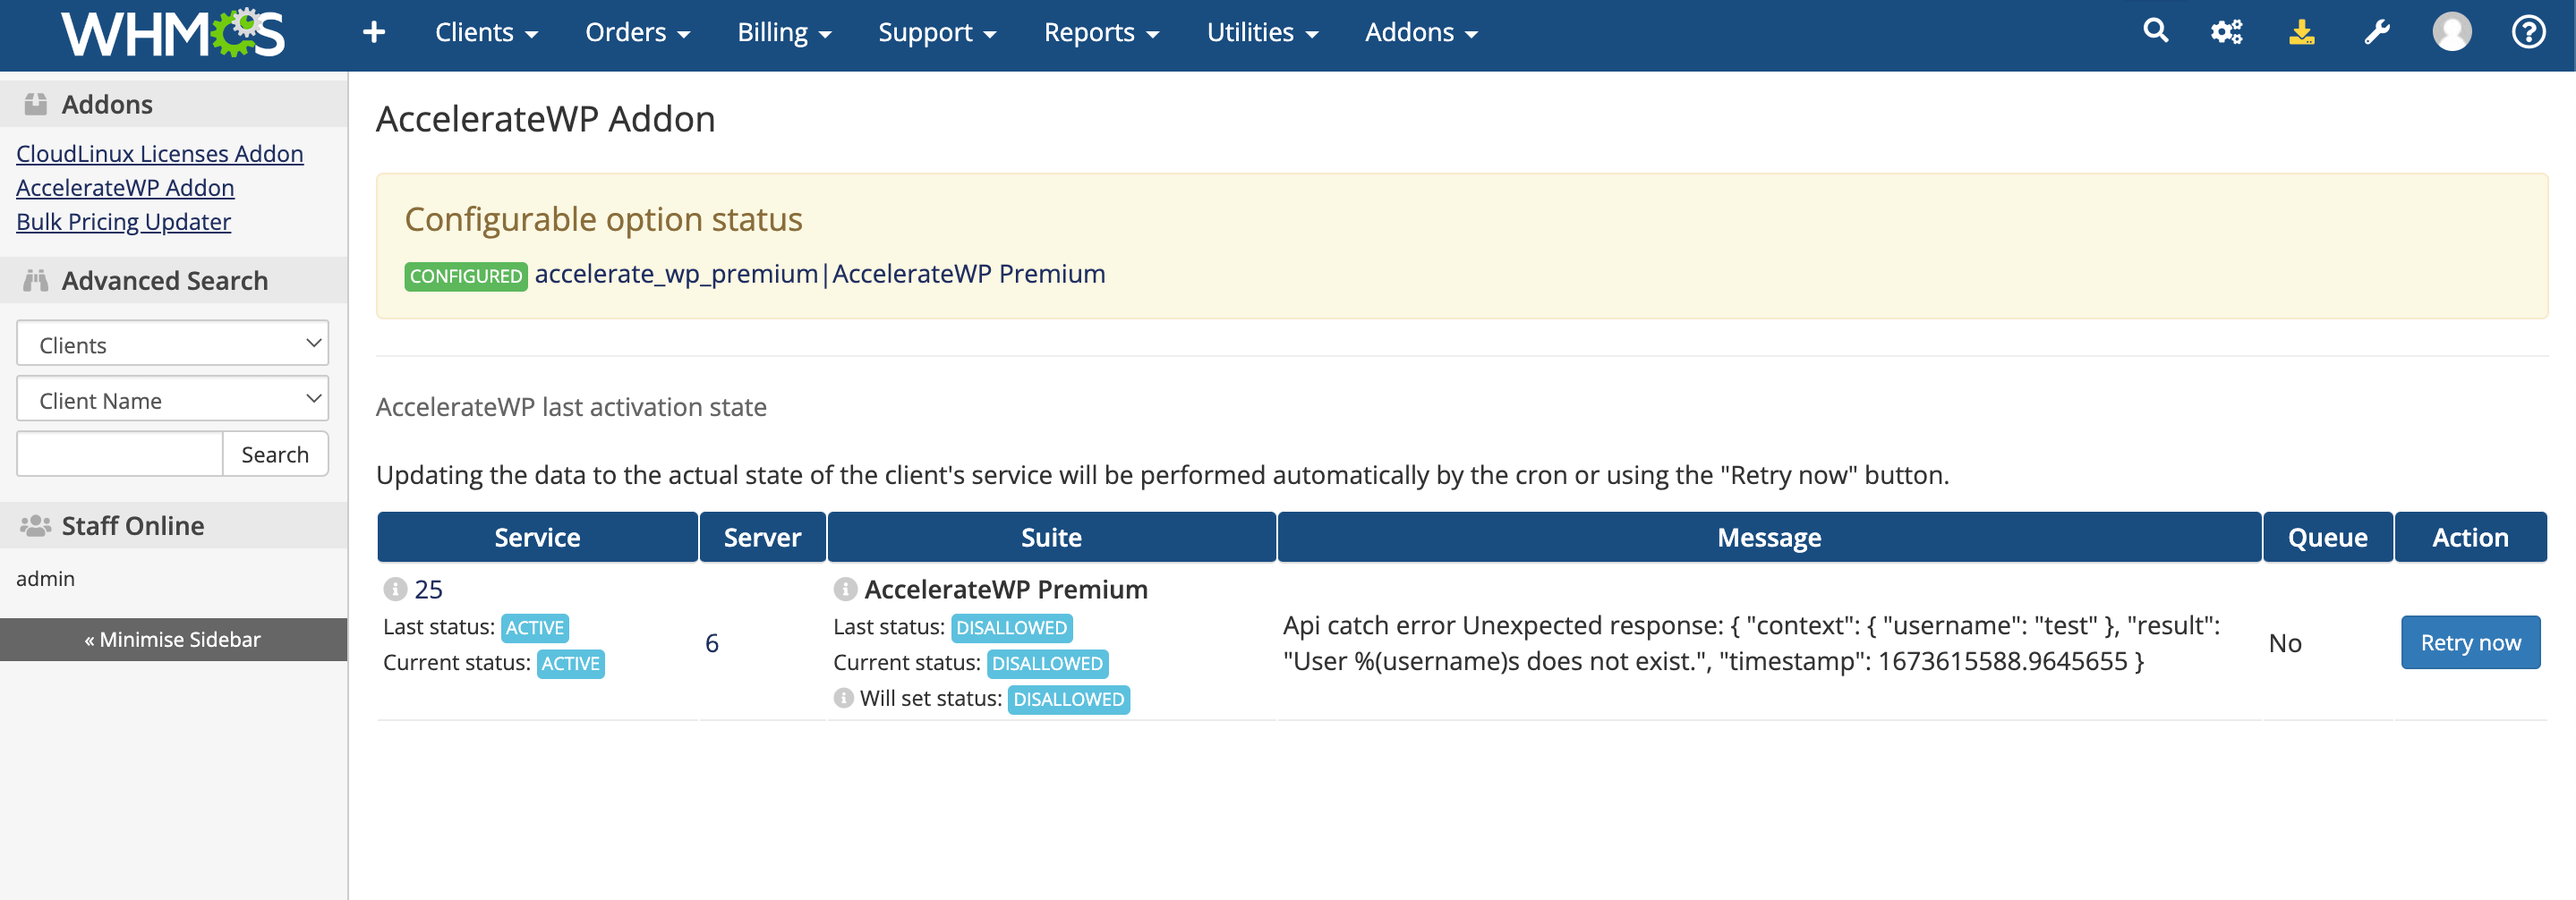
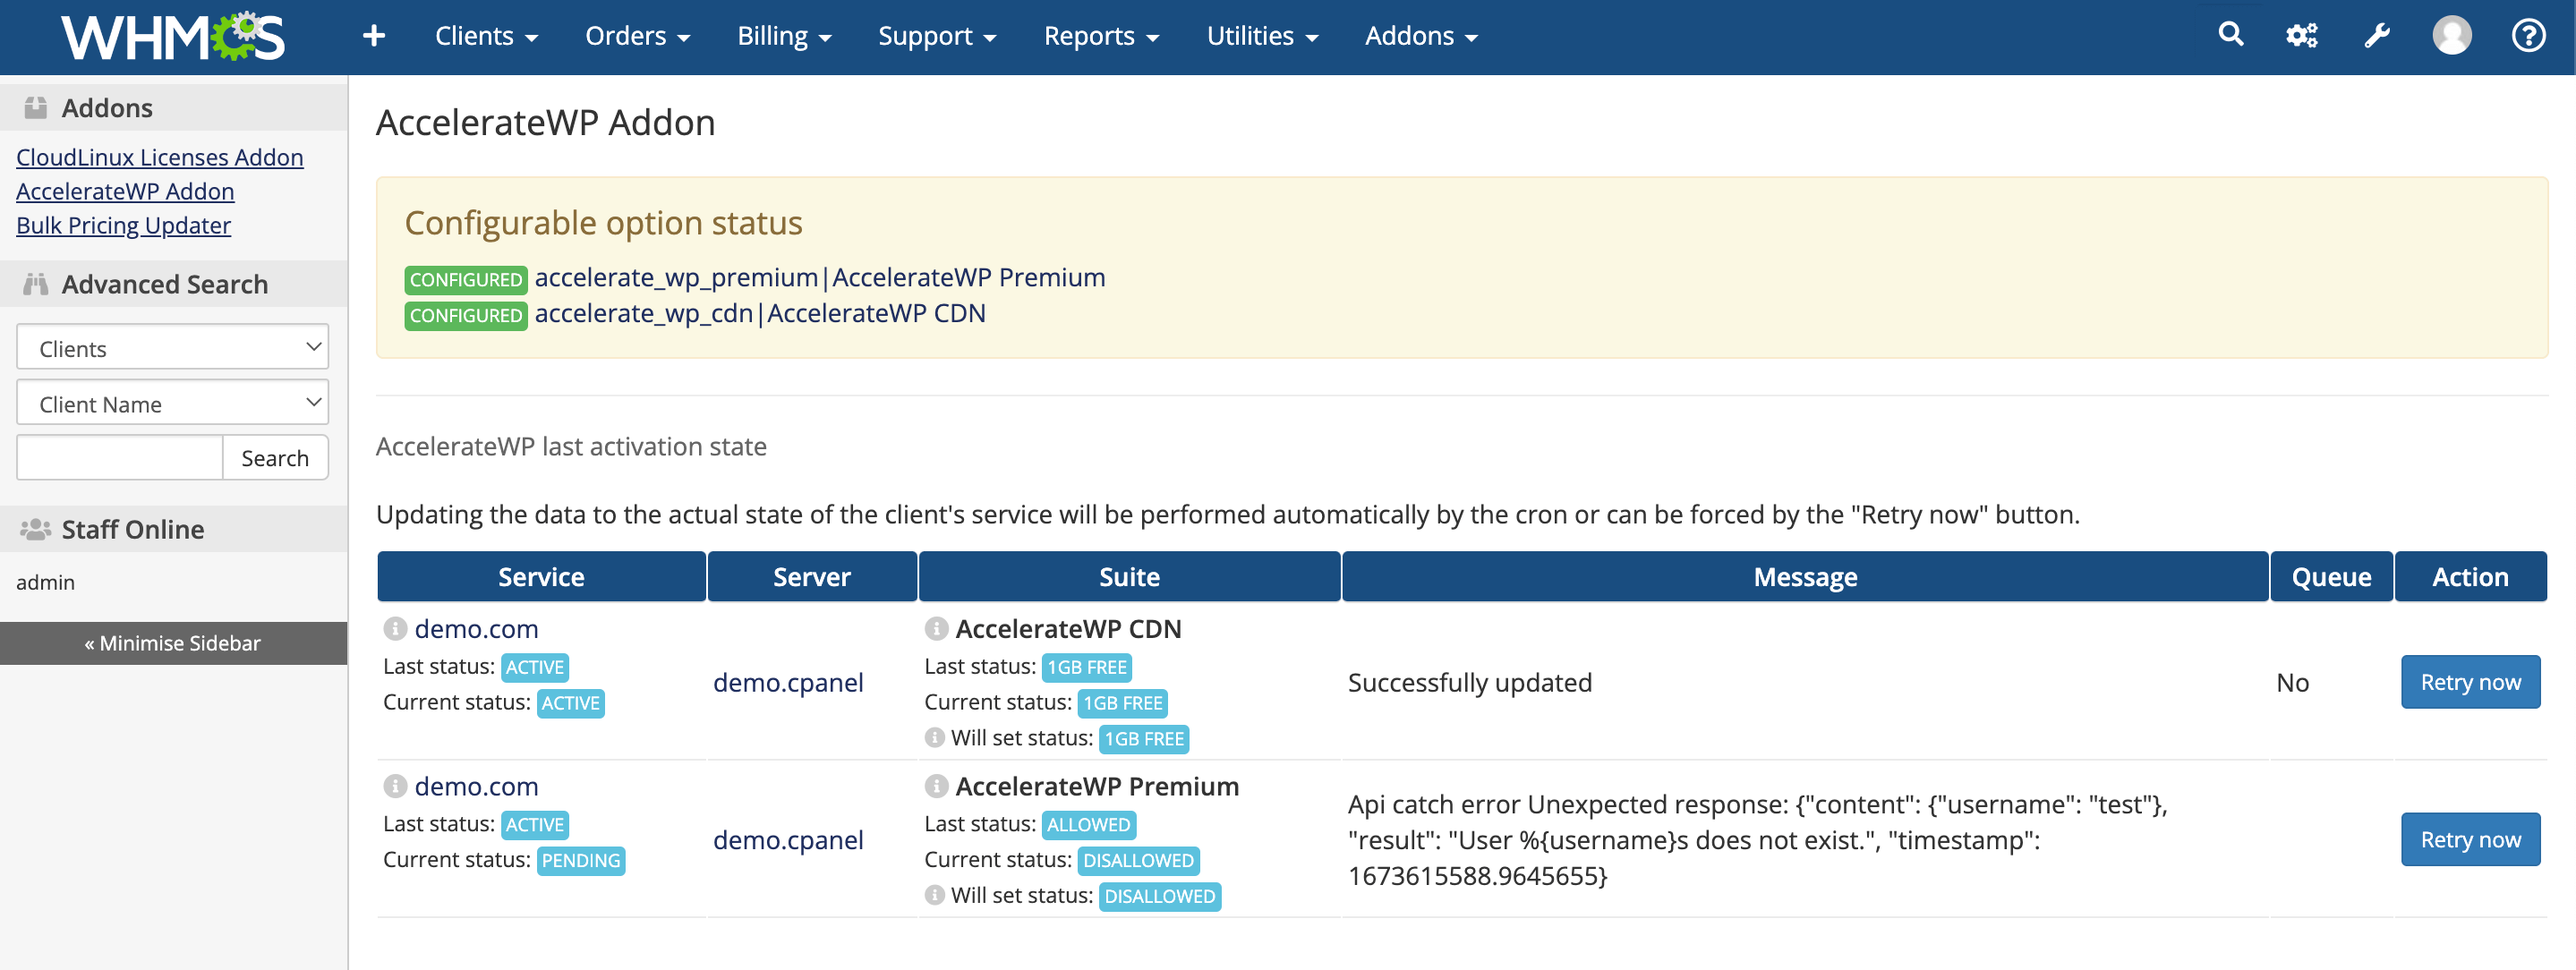
WHMCS AccelerateWP - update documentation v0.0.2

diff --git a/docs/whmcs_awp_plugin/README.md b/docs/whmcs_awp_plugin/README.md
@@ -6,11 +6,11 @@
 
 AccelerateWP Addon for WHMCS automatically configures "Configurable options" that can be linked to the Product/Service.
 
-When a client orders/upgrade a configurable option, a request will be sent to the server to set the Allowed/Default status for AccelerateWP Premium features.
+When a client orders/upgrade a configurable option, a request will be sent to the server to set the Allowed/Default status for AccelerateWP Premium/Cdn features.
 
 ## Installation and Configuration
 
-### Installation
+### Installation and Update
 
 1. Your WHMCS must be properly configured to work with cron because sending requests to the server is sent by cron. [How to setting up the cron](https://docs.whmcs.com/Crons#Setting_up_the_Cron_Tasks).
 2. Plesk requires the installation of an additional [extension](#plesk-extension).
@@ -35,12 +35,16 @@ unzip whmcs-awp-plugin-latest.zip -d <whmcs_root>/modules/addons
 </div>
 
 4. If your hosting requires specific files permissions, change them accordingly in the folder: <span class="notranslate">`<whmcs_root>/modules/addons/acceleratewp`</span>
-5. Go to the admin panel page WHMCS/System settings/Addon Modules, activate "AccelerateWP Addon"
+5. Go to the admin panel page "WHMCS/System Settings/Addon Modules", activate "AccelerateWP Addon"
 ![](/images/whmcs-awp-admin-addon-activate.png)
 6. Configure addon:
    1. Enable debug mode if necessary. Logs are stored in the "System Module Debug Log"
    2. Allow administrator access to the addon page to view information about the status of the servers
 ![](/images/whmcs-awp-admin-addon-configure.png)
+
+:::tip Notes
+When upgrading to a new version, be sure to open the "WHMCS/System Settings/Addon Modules" page to apply the module changes.
+:::
 
 ### Setting prices for "Configurable options"
 
@@ -50,13 +54,14 @@ During addon activation, "Configurable options" AccelerateWP are created automat
 Don't change the name of the group, options and sub-options!
 :::
 
-![](/images/whmcs-awp-admin-config-option.png)
+![](/images/whmcs-awp-admin-config-option.png?1)
 
 In the AccelerateWP group settings, you need to configure:
 * Choose for which products (cPanel/Plesk) you can additionally order the service.
 * For the "accelerate_wp_premium|AccelerateWP Premium" option, set the cost.
-
-In the option price settings, there are two options, On and Off. Adjust prices as you see fit.
+  * In the option price settings, there are two options, On and Off. Adjust prices as you see fit.
+* For the "accelerate_wp_cdn|AccelerateWP CDN" option, set the cost.
+   * In the option price settings, there are two options, 1GB Free and 50GB. Adjust prices as you see fit.
 
 ![](/images/whmcs-awp-admin-config-option-price.png)
 
@@ -67,14 +72,14 @@ Set up your service to work with "Configurable options" in the "System settings/
 1. Choose the payment type, One time or Recurrent.
 ![](/images/whmcs-awp-admin-product-price.png)
 2. Make sure the product is associated with the Configurable option "AccelerateWP"
-![](/images/whmcs-awp-admin-product-config-option.png)
+![](/images/whmcs-awp-admin-product-config-option.png?1)
 3. Allow clients to upgrade Configurable options so they can purchase AccelerateWP for existing subscriptions.
 ![](/images/whmcs-awp-admin-product-upgrades.png)
 4. Save changes.
 5. Existing customers can upgrade their AccelerateWP Premium settings by changing the order using the "Upgrade/Downgrade options" button.
 ![](/images/whmcs-awp-admin-ui-upgrade-config-option.png)
 6. New customers will be able to select AccelerateWP settings during order creation
-![](/images/whmcs-awp-admin-ui-new-config-option.png)
+![](/images/whmcs-awp-admin-ui-new-config-option.png?1)
 7. The administrator can manually change the setting of AccelerateWP by editing the purchased service by the customer
 ![](/images/whmcs-awp-admin-service-change-config-option.png)
 
@@ -99,13 +104,10 @@ Deactivating the addon will delete the table with the history of AccelerateWP ac
 | Action  | Send request manually                                                                                                                                                                                                                                                                                     |
 
 An example of a request that will be executed by cron
-![](/images/whmcs-awp-admin-addon-page-example-cron.png)
+![](/images/whmcs-awp-admin-addon-page-example-cron.png?1)
 
 An example of a request that failed
-![](/images/whmcs-awp-admin-addon-page-example-error.png)
-
-Example of a successful request
-![](/images/whmcs-awp-admin-addon-page-example-success.png)
+![](/images/whmcs-awp-admin-addon-page-example-error.png?1)
 
 ### FAQ
 
@@ -122,7 +124,7 @@ If an error occurs, you will be able to retry the request on the addon page.
 
 The AccelerateWP module enters the "Allowed" status when the client service's status is set to "Active" and the configurable options "On" is selected. In other cases, the status will be set to "Default" and the feature will be turned off for user.
 
-### How to automatically open the "Upgrade/Downgrade Options" page?
+#### How to automatically open the "Upgrade/Downgrade Options" page?
 
 Parameters can be used to determine the billing account of the user in order to display proper page.
 WHMCS plugin already has automatic redirect to upgrade page, there is only needed to set upgrade-url
@@ -132,13 +134,14 @@ to the root of your WHMCS instance.
 https://your.whmcs.com/?m=acceleratewp&action=provisioning&username=democom&domain=demo.com&server_ip=10.51.0.10
 ```
 
-| Parameter | Value        | Description                                              |
-|-----------|--------------|----------------------------------------------------------|
-| m         | acceleratewp | Constant.                                                |
-| action    | provisioning | Constant.                                                |
-| username  | democom      | Customer's account name.                                 |
-| domain    | demo.com     | Customer's account primary domain.                       |
-| server_ip | 10.51.0.10   | Primary IP of the server where AccelerateWP is installed |
+| Parameter | Value                 | Description                                                                                                             |
+|-----------|-----------------------|-------------------------------------------------------------------------------------------------------------------------|
+| m         | acceleratewp          | Constant.                                                                                                               |
+| action    | provisioning          | Constant.                                                                                                               |
+| username  | democom               | Customer's account name.                                                                                                |
+| domain    | demo.com              | Customer's account primary domain.                                                                                      |
+| server_ip | 10.51.0.10            | Primary IP of the server where AccelerateWP is installed.                                                               |
+| suite     | accelerate_wp_premium | Optional. To display the settings of the specified suite only. Options: accelerate_wp_premium or accelerate_wp_cdn_pro. |
 
 ## Plesk extension
 
@@ -193,12 +196,23 @@ The Plesk extension is available since accelerate-wp-1.3-2 version
 3. Select the action "Upgrade/Downgrade Options"
    ![](/images/whmcs-awp-user-services-config-option-upgrade.png)
 4. Choose a new configuration and place an order
-   ![](/images/whmcs-awp-user-services-config-option-change.png)
+   ![](/images/whmcs-awp-user-services-config-option-change.png?1)
 5. Changes will occur automatically after 1 minute or after confirmation of the order by the service provider
 
 ### How to checkout new order
 
 1. Select a service in the service provider's WHMCS portal
-2. Services with AccelerateWP enabled will display an option to configure AccelerateWP Premium.
+2. A service with AccelerateWP enabled will display options to enable them
    ![](/images/whmcs-awp-user-order.png)
 3. Changes will occur automatically after 1 minute or after confirmation of the order by the service provider
+4. After purchase, you need to manually activate the modules in the AccelerateWP panel
+
+## Changelog
+
+* 0.0.2
+  * Added the ability to purchase AccelerateWP CDN
+  * Improved display of service and server names on the AccelerateWP module page
+  * Added the ability to hide suites on the update options page
+
+* 0.0.1
+  * Betta release
